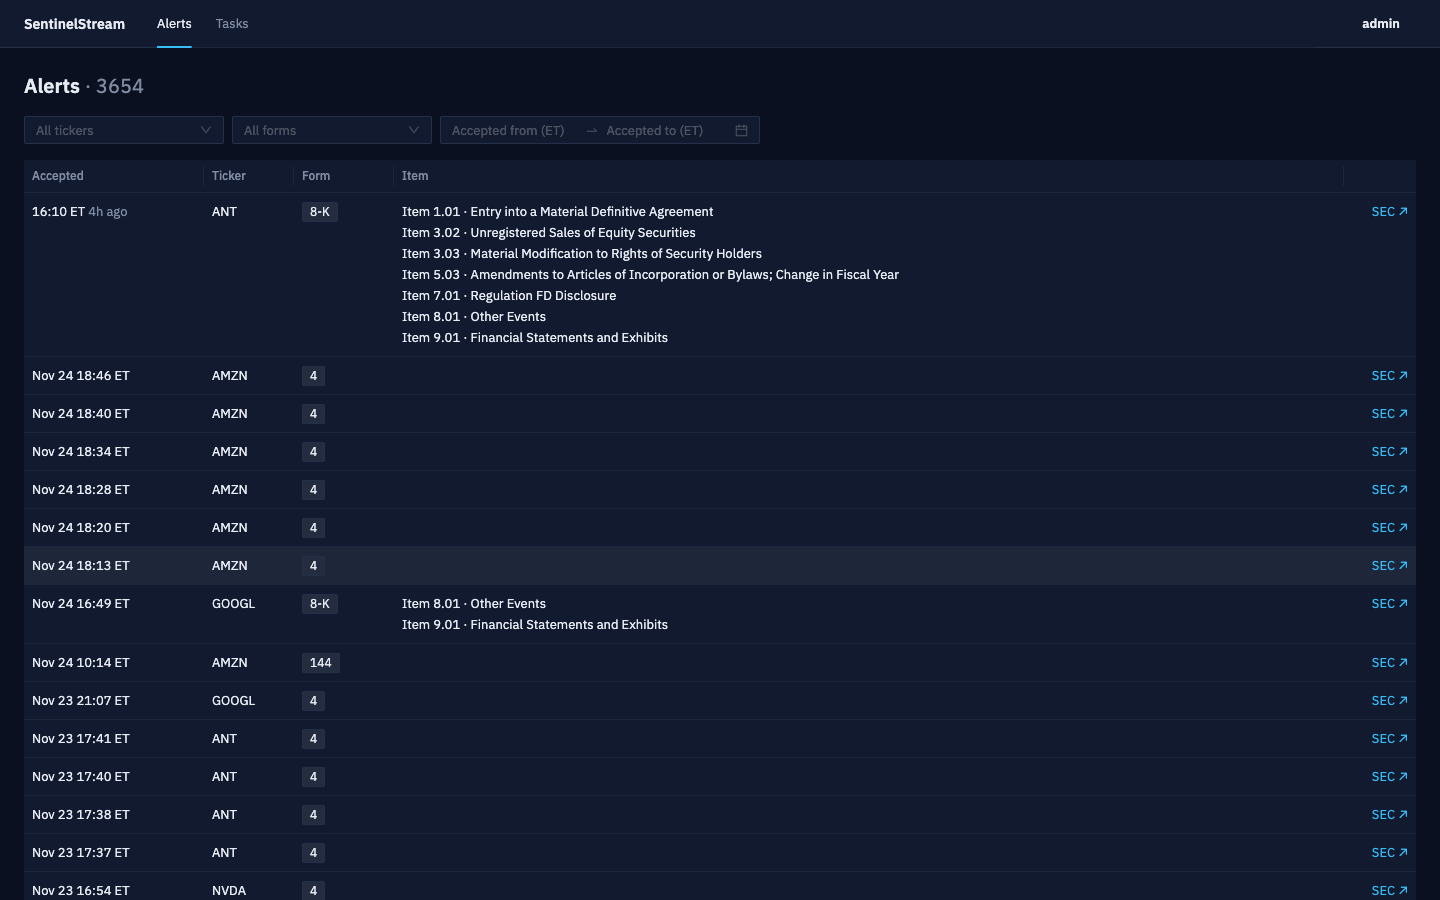
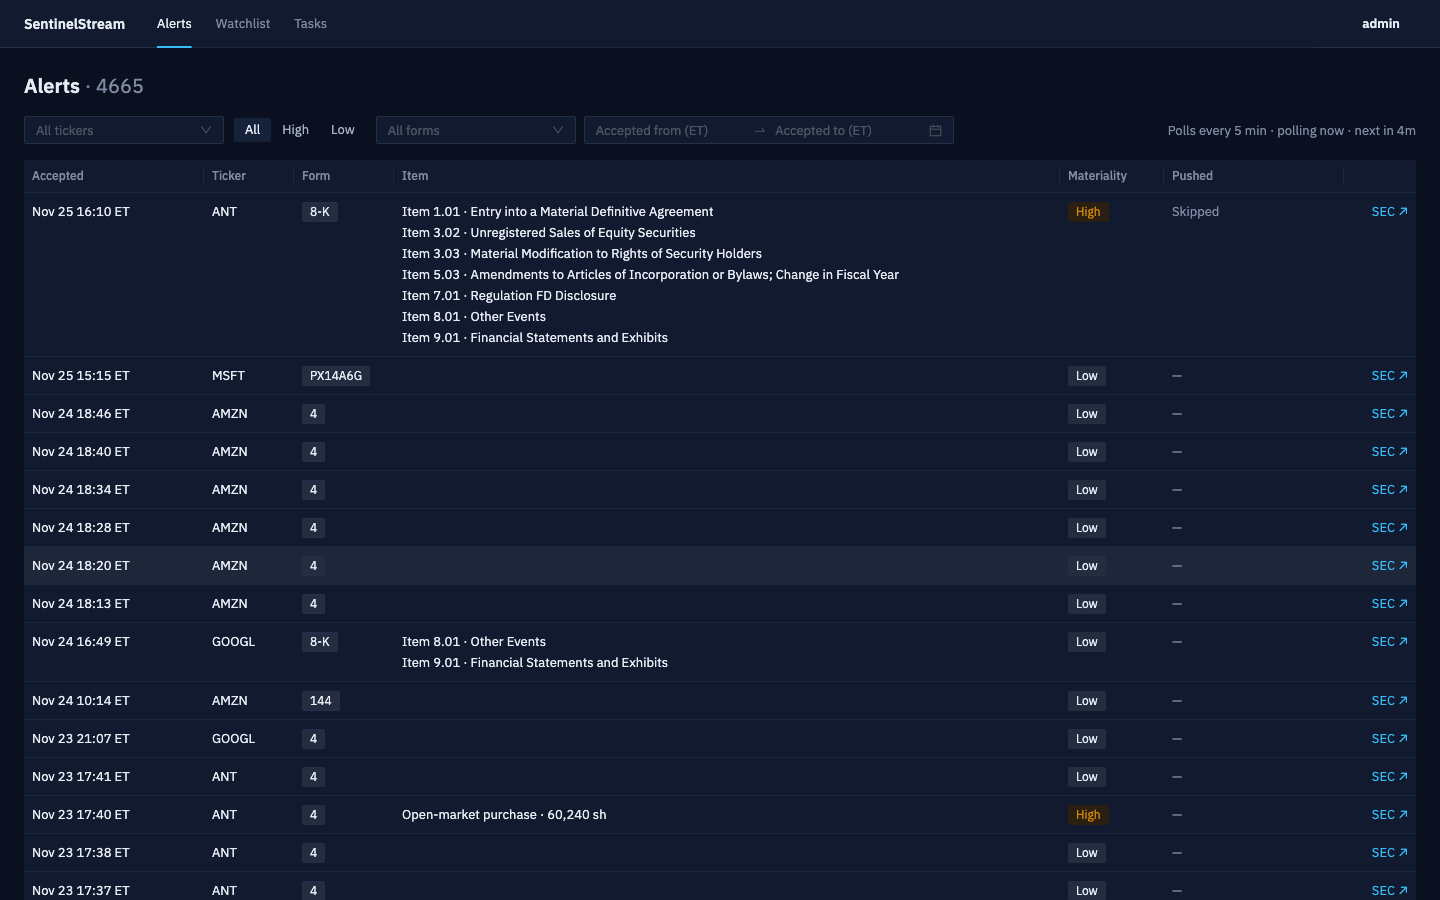
Refresh the README for M1
The M1 row now says what is built and that only the live 8-K latency
check is left. The architecture diagram adds Slack, Form 4 XML, XBRL and
Massive ticker details, and new bullets cover per-company materiality,
the Slack outbox, ticker onboarding and the failed-run alarm. The layout
table lists alerts/ and filings/. Screenshots of Alerts, Alert detail,
Watchlist and Tasks are retaken from EC2 at 1440 px in ET.

diff --git a/README.md b/README.md
@@ -2,10 +2,14 @@
 
 SentinelStream is a personal research assistant for a long-horizon US stock investor. It watches SEC EDGAR for new filings from the companies on a watchlist and flags the material ones. It explains each filing from the filing itself, with numbers taken from XBRL rather than from a model. It shows what has historically followed similar events, and it keeps a decision ledger measured against QQQ. It is a single-user tool that runs as a small, monitored production system on AWS: every merge to `main` is tested, built and deployed automatically, the infrastructure is defined in Terraform, and no credentials are stored in the repo or in CI. It makes no trades and gives no buy or sell recommendations. The full spec is in [`docs/PRD.md`](docs/PRD.md).
 
-![Alerts page: SEC filings for the watchlist, newest first, with 8-K items and their titles](docs/screenshots/alerts.png)
+![Alerts page: watchlist filings, newest first, with 8-K items, materiality, Slack delivery and when the poller last ran](docs/screenshots/alerts.png)
 
 <details>
-<summary>More screenshots: Tasks, a run expanded, and Sign in</summary>
+<summary>More screenshots: an alert's detail, Watchlist, Tasks, a run expanded, and Sign in</summary>
+
+![Alert detail: timings from EDGAR acceptance to Slack, the companies the filing is listed under, and its Form 4 transactions](docs/screenshots/alert-detail.png)
+
+![Watchlist: tracked tickers with filer type, CIK, onboarding status and last filing, then the benchmarks](docs/screenshots/watchlist.png)
 
 ![Tasks page: task definitions and run history](docs/screenshots/tasks.png)
 
@@ -15,7 +19,7 @@ SentinelStream is a personal research assistant for a long-horizon US stock inve
 
 </details>
 
-Screenshots are from the live EC2 deployment at 1440 px.
+Screenshots are from the live EC2 deployment at 1440 px, with times in ET (the page can also show the viewer's own time zone).
 
 ## Architecture
 
@@ -41,14 +45,20 @@ flowchart LR
   ecr -->|pull| ec2
   ssm[(SSM Parameter Store<br/>secrets)] -->|env at deploy time| ec2
   ec2 -->|container logs| cw[CloudWatch Logs<br/>+ task_run_failed alarm]
-  worker -->|rate-limited, Retry-After| sec[SEC EDGAR]
-  worker --> massive[Massive daily bars]
+  worker -->|rate-limited, Retry-After| sec[SEC EDGAR<br/>filings, Form 4 XML, XBRL]
+  worker --> massive[Massive<br/>daily bars, ticker details]
+  worker -->|high filings, once each| slack[Slack webhook]
+  api -->|check a ticker before adding it| sec
   you([Investor]) -->|SSM port forward| api
 ```
 
 - **All background work goes through `task_runs`** ([ADR 0003](docs/decisions/0003-scheduler-and-worker.md)). The scheduler only enqueues. The worker claims runs with `FOR UPDATE SKIP LOCKED` and holds a per-task advisory lock, so an overlapping run ends `skipped`. The "Run now" button and the CLI insert the same `pending` rows, and the API answers 202.
 - **Every fact row carries `known_at`,** the time it became public: EDGAR acceptance for filings, the 16:00 ET close for daily bars. Writes upsert on stable business keys, so every job is safe to rerun ([ADR 0002](docs/decisions/0002-baseline-data-model.md), [ADR 0004](docs/decisions/0004-sec-filings-ingestion.md), [ADR 0006](docs/decisions/0006-edgar-acceptance-time-is-utc.md)).
 - **Data providers are treated politely.** SEC requests carry a declared User-Agent and are rate-limited on the client side. Every HTTP call retries with exponential backoff and honours `Retry-After`. A missing credential fails the run with a clear error instead of falling back to placeholder data.
+- **Alerts are decided by plain rules, per company** ([ADR 0007](docs/decisions/0007-filing-issuer-links.md), [ADR 0008](docs/decisions/0008-materiality-rules-v0.md)). A filing is linked to every watchlist company EDGAR lists it under. It is high for a company when it is an 8-K with item 1.01, 2.02, 4.02 or 5.02 from a domestic filer, or a Form 4 open-market purchase of that company's shares, read from the Form 4 XML. Everything else is low and only shown in the UI.
+- **Each high filing reaches Slack once** ([ADR 0009](docs/decisions/0009-slack-notifier.md)). An outbox keyed on accession number and channel deduplicates. History and stale filings are never pushed. Delivery happens in the same 5-minute poll that found the filing, and each alert records how long it took from EDGAR acceptance.
+- **Tickers are onboarded, not hand-seeded** ([ADR 0010](docs/decisions/0010-ticker-onboarding.md)). A symbol is checked with SEC before it is added, so the watchlist only holds real companies. A job then ties it to its SEC issuer, cross-checks it with the price provider, and loads two years of filings, daily prices (from the listing date, since a ticker can be reused) and XBRL facts, moving it from pending to backfilling to ready.
+- **Failures page someone.** Every failed run writes one `task_run_failed` log line, which a CloudWatch alarm turns into an email.
 - **Sign-in** uses PBKDF2 password hashes, an HMAC-signed HttpOnly cookie, and a login lockout. Every `/api` route except login and logout requires a session ([ADR 0005](docs/decisions/0005-session-auth.md)).
 
 Other decisions are recorded in [`docs/decisions/`](docs/decisions).
@@ -58,7 +68,7 @@ Other decisions are recorded in [`docs/decisions/`](docs/decisions).
 | Milestone | Status | What it delivers |
 | --- | --- | --- |
 | **M0** Showcase repo on AWS | Done, Nov 2026 | CI with gitleaks, Terraform for stage 1, auto-deploy to EC2 on merge, scheduler and worker, SEC filings and daily price ingestion, sign-in, the Tasks page, and a read-only Alerts list of stored filings |
-| **M1** Alerts live | In progress | Materiality rules v0 (8-K items 1.01, 2.02, 4.02, 5.02 and Form 4 open-market purchases), Slack alerts within 10 minutes of EDGAR acceptance, ticker onboarding, materiality and Slack delivery on the Alerts page, the Watchlist page, and the `task_run_failed` log line that feeds the existing alarm |
+| **M1** Alerts live | Built; waiting on a live 8-K | Materiality rules v0 (8-K items 1.01, 2.02, 4.02, 5.02 and Form 4 open-market purchases), Slack alerts deduplicated by accession number, ticker onboarding with the Watchlist page, materiality and Slack delivery on the Alerts page, an Alert detail page with acceptance-to-Slack timing, and the `task_run_failed` alarm. The last check, a real watchlist 8-K reaching Slack within 10 minutes of EDGAR acceptance, waits for one to be filed |
 | **M2** Evidence harness | Planned | As-of data access with tests proving lookahead is blocked, event studies with costs, and a base rate (with sample size) on every alert |
 | **M3** Explain | Planned | XBRL fundamentals and a year-over-year 10-K diff with citations to filing sections |
 | **M4** Journal | Planned | Decision ledger, and returns against QQQ split into alpha and beta |
@@ -66,7 +76,7 @@ Other decisions are recorded in [`docs/decisions/`](docs/decisions).
 
 **Out of scope:** trade execution and broker connections; buy or sell recommendations; options, intraday data and order books; charting, screeners and a general fundamentals UI; and multi-user SaaS. Broker apps and TradingView already cover those well.
 
-**Watchlist:** NVDA, SPCX (SpaceX), ANT (Anthropic), GOOGL, AMZN and NBIS (Nebius, a foreign private issuer that files 20-F and 6-K), with QQQ as the benchmark and SPY for reference.
+**Watchlist:** NVDA, SPCX (SpaceX), ANT (Anthropic), GOOGL, AMZN and NBIS (Nebius, a foreign private issuer that files 20-F and 6-K, though its insiders file Form 4), with QQQ as the benchmark and SPY for reference. More tickers are added on the Watchlist page.
 
 ## Run locally
 
@@ -129,9 +139,11 @@ Infrastructure, and how to reach the host and the UI over SSM, is in [`infra/ter
 
 | Path | Purpose |
 | --- | --- |
-| `ingestion/` | Providers, normalisers, raw → normalised |
-| `orchestration/` | Scheduler, task runs, locks, dispatch |
-| `alerts/`, `research/`, `filings/`, `ledger/` | Later milestones (M1–M4) |
+| `ingestion/` | Providers (SEC, Massive), normalisers, the SEC poller, price bars, ticker onboarding |
+| `orchestration/` | Scheduler, task runs, locks, dispatch, migrations |
+| `alerts/` | Materiality rules, classification, the Slack notifier and its outbox |
+| `filings/` | 8-K item titles, Form 4 XML, XBRL company facts, EDGAR links |
+| `research/`, `ledger/` | Later milestones (M2, M4) |
 | `api/` | FastAPI app; also serves the built web UI |
 | `web/` | React + TypeScript frontend |
 | `infra/` | Terraform, Compose files, SQL migrations |
